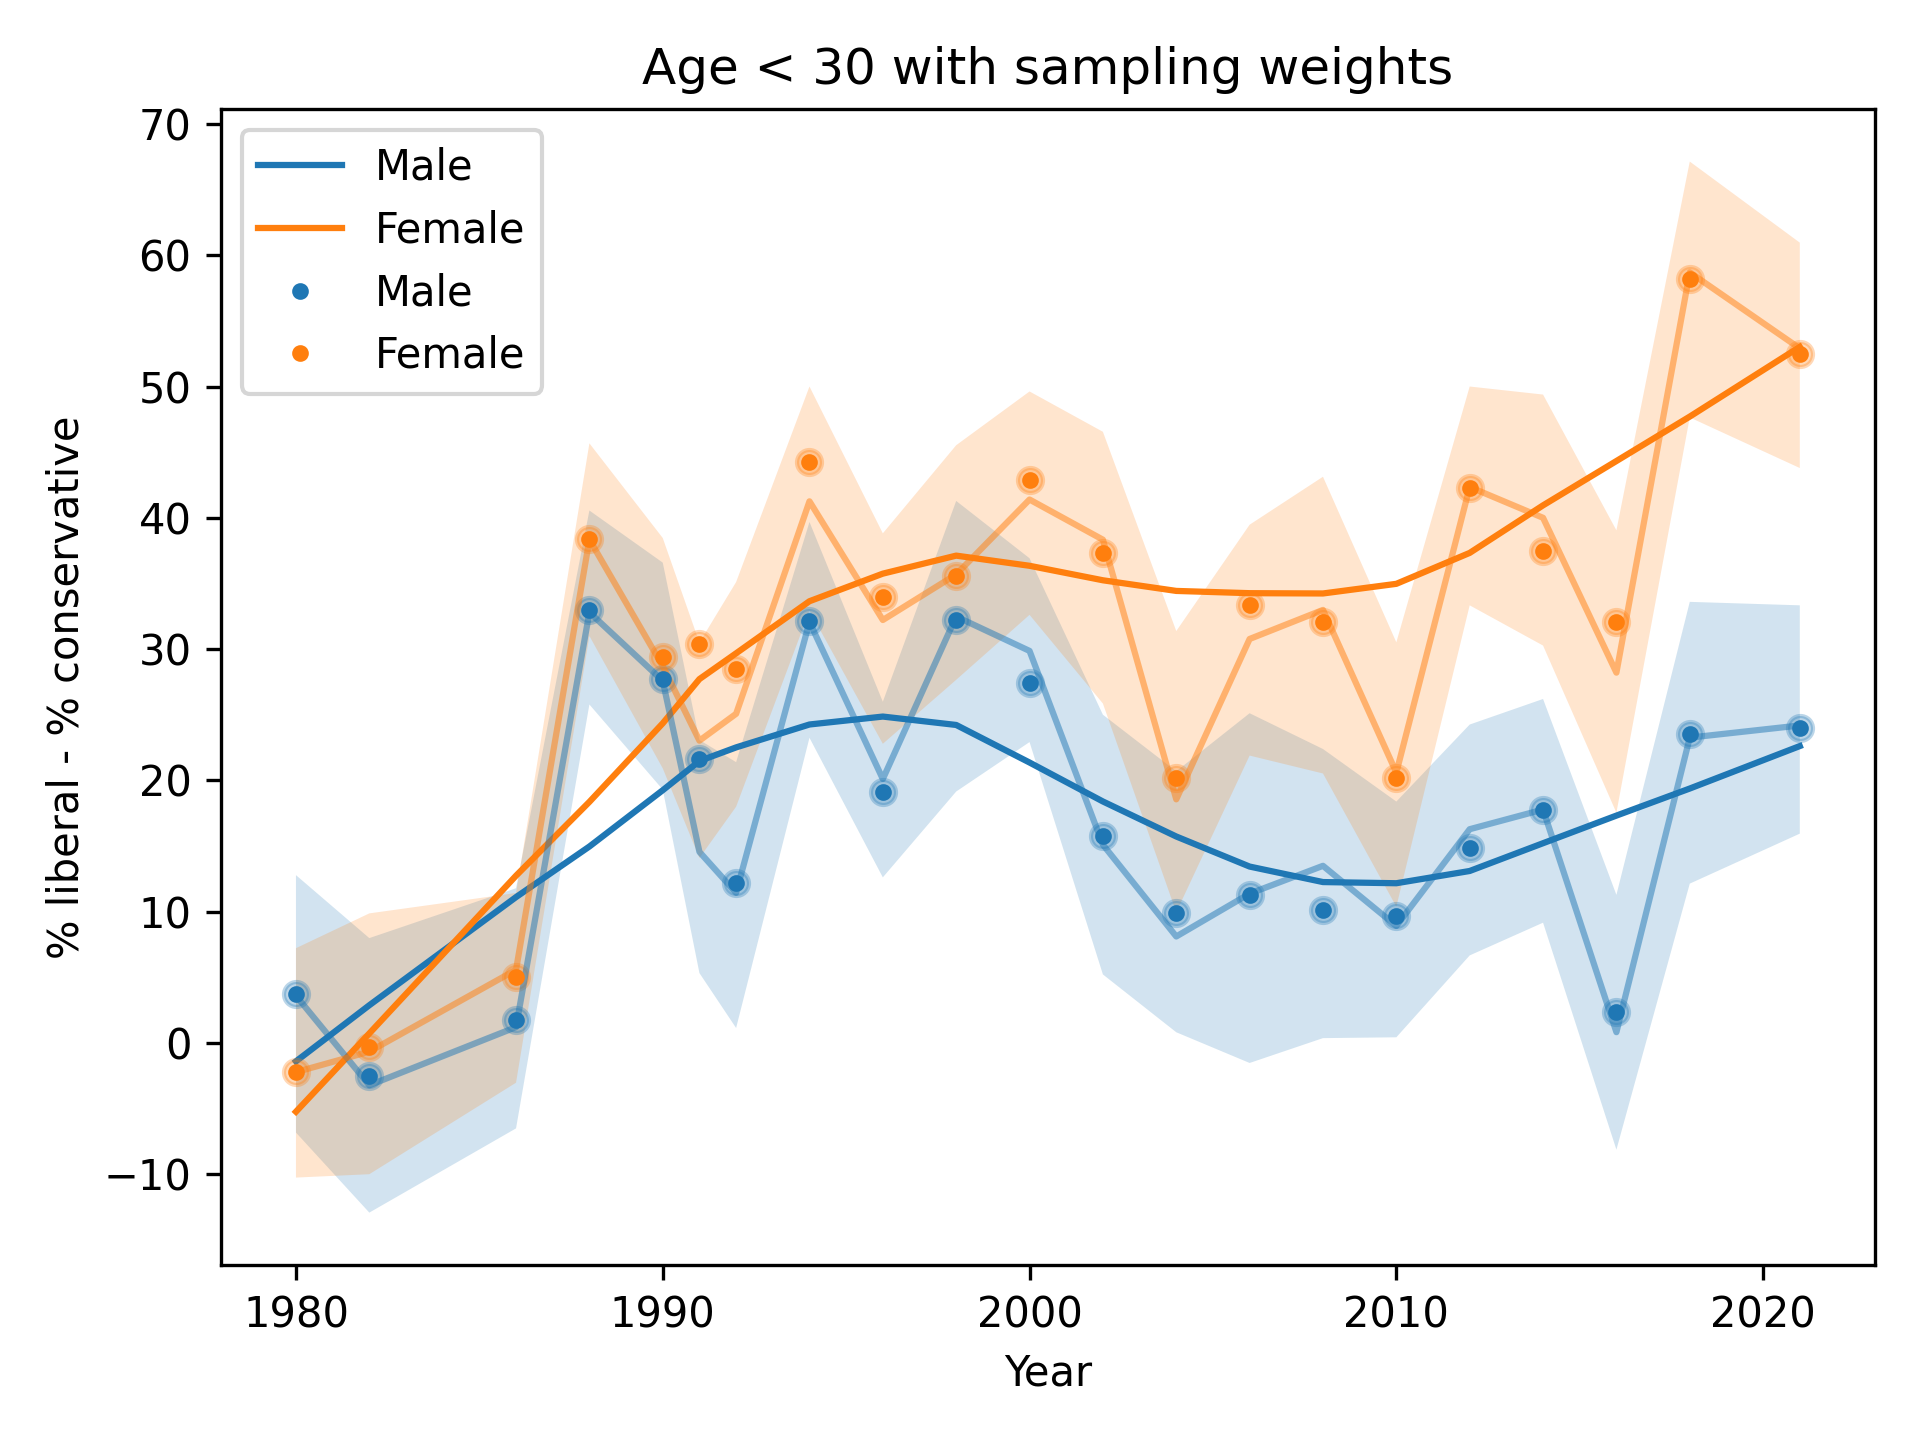
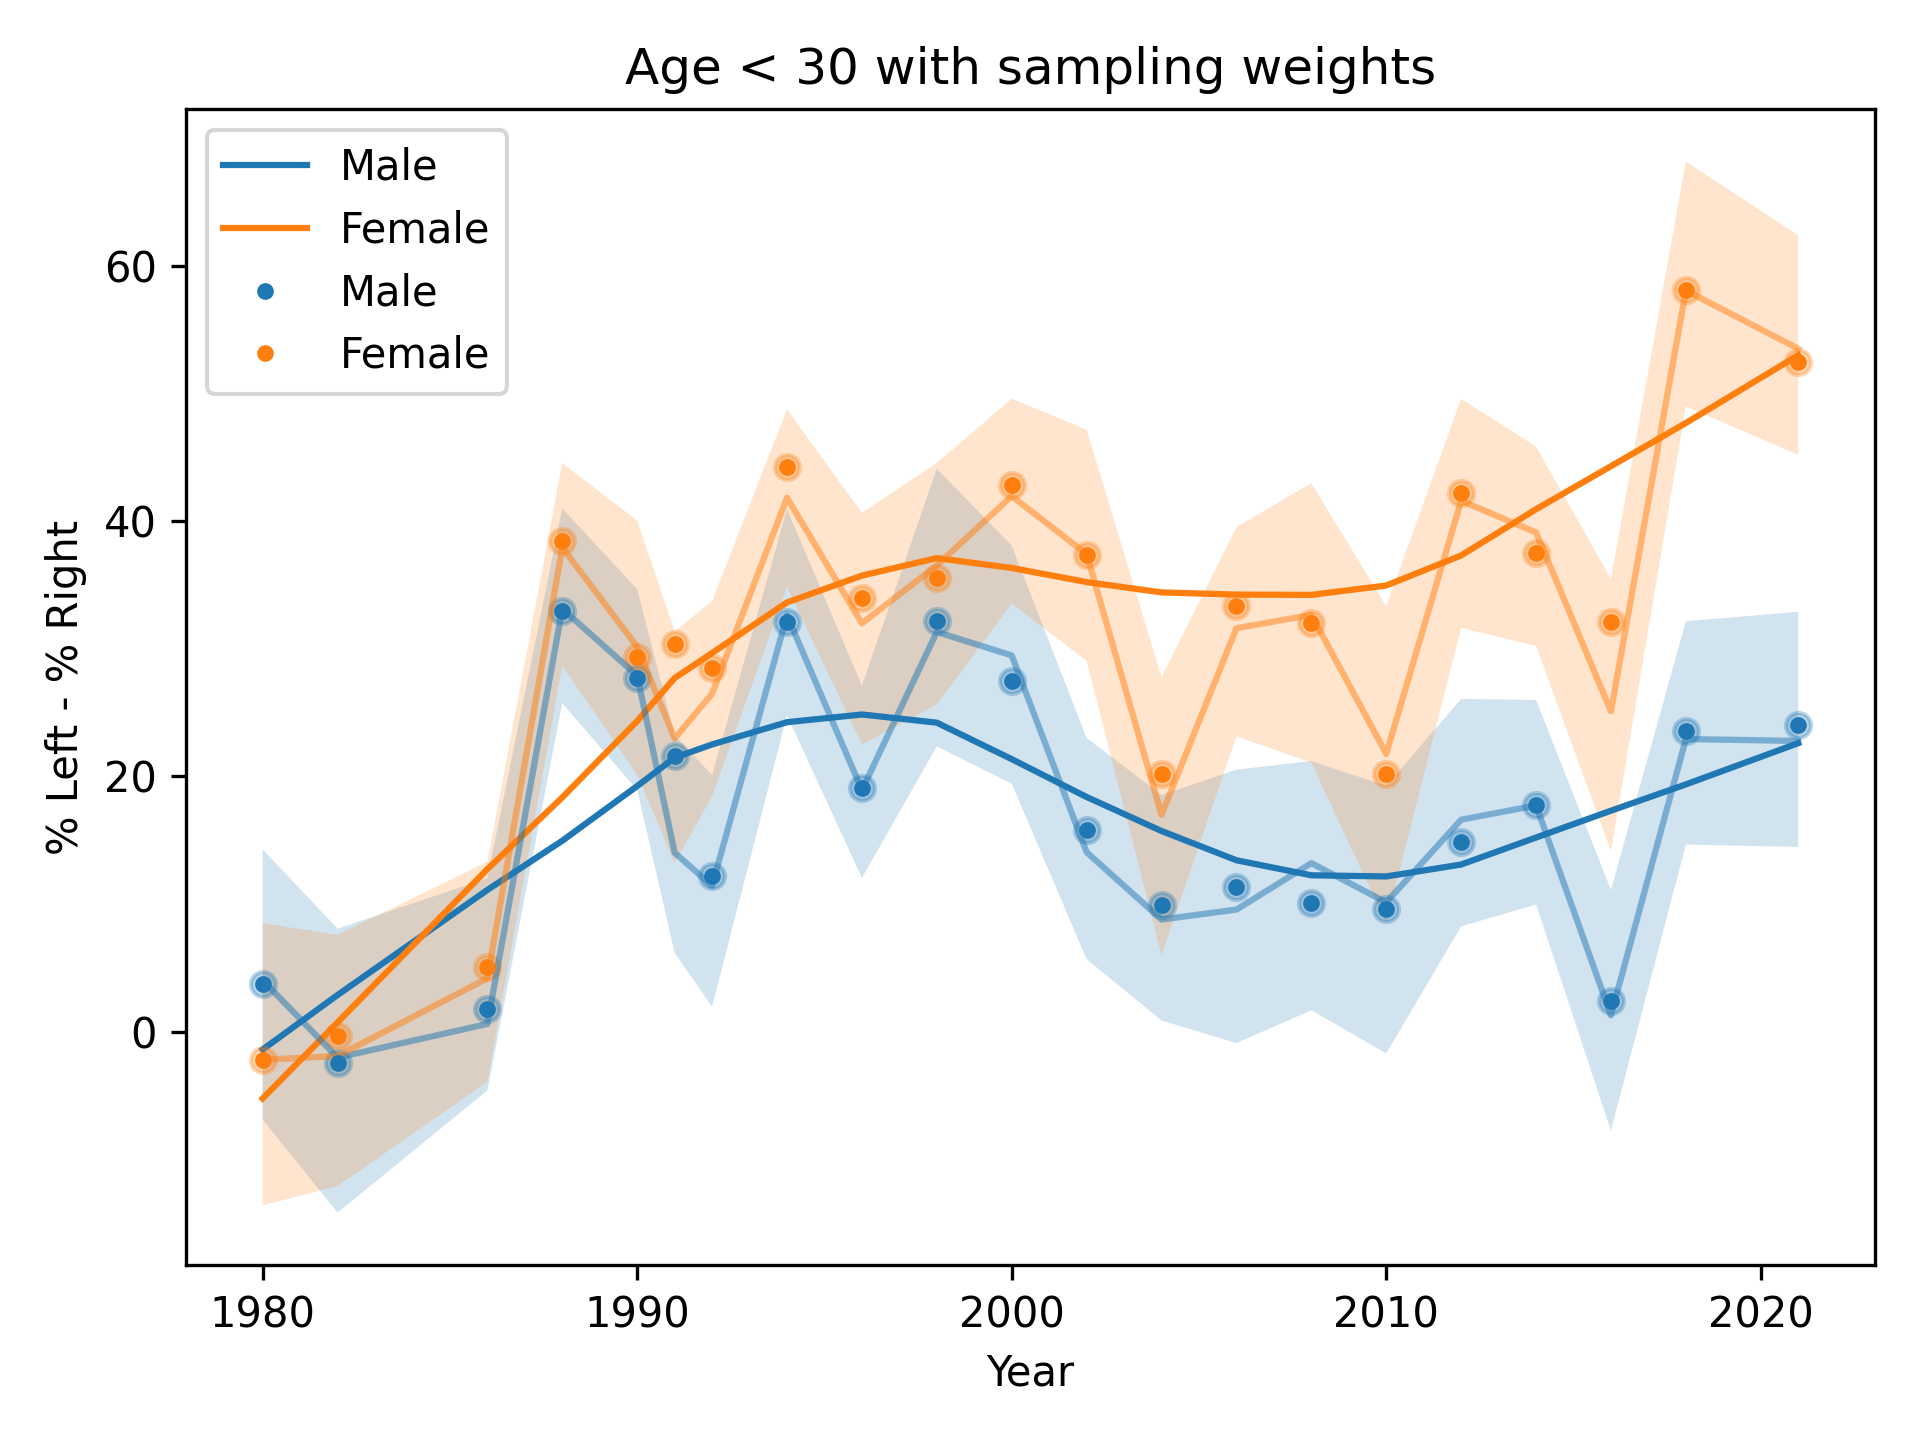
new labels

diff --git a/plot.py b/plot.py
@@ -57,16 +57,16 @@ def transform_ideology(df: pd.DataFrame) -> pd.DataFrame:
     df.replace(
         {
             "pa01": {
-                1: "Liberal",
-                2: "Liberal",
-                3: "Liberal",
-                4: "Liberal",
-                5: "Liberal",
-                6: "Conservative",
-                7: "Conservative",
-                8: "Conservative",
-                9: "Conservative",
-                10: "Conservative",
+                1: "Left",
+                2: "Left",
+                3: "Left",
+                4: "Left",
+                5: "Left",
+                6: "Right",
+                7: "Right",
+                8: "Right",
+                9: "Right",
+                10: "Right",
             }
         },
         inplace=True,
@@ -82,7 +82,7 @@ def make_diff(df):
     column = df["pa01"]
 
     xtab = pd.crosstab(year, column, normalize="index")
-    diff = xtab["Liberal"] - xtab["Conservative"]
+    diff = xtab["Left"] - xtab["Right"]
 
     return diff * 100
 
@@ -152,7 +152,7 @@ def decorate(**options):
 
 
 def decorate_plot(title):
-    decorate(xlabel="Year", ylabel="% liberal - % conservative", title=title)
+    decorate(xlabel="Year", ylabel="% Left - % Right", title=title)
 
 
 def make_plot(df, title=""):
